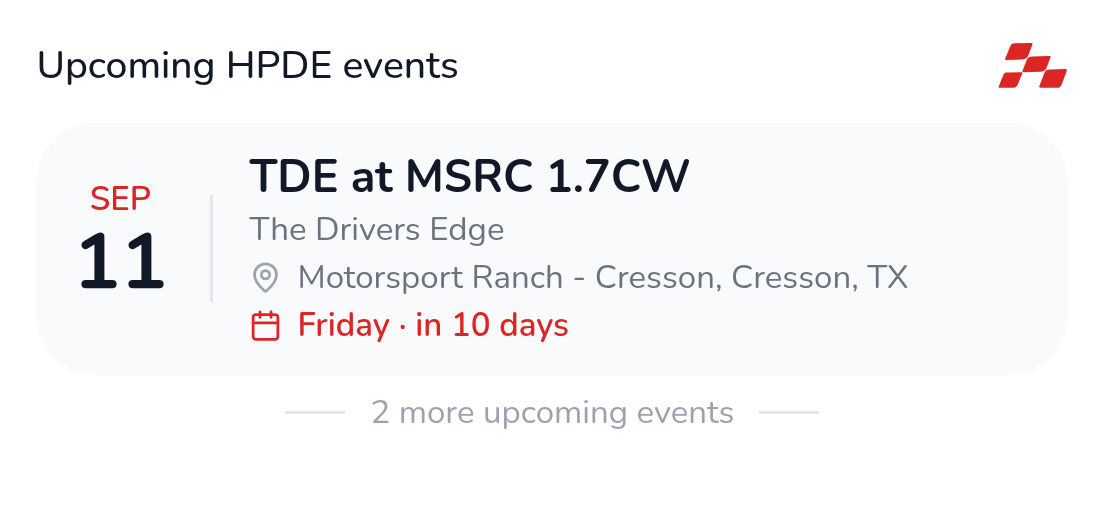
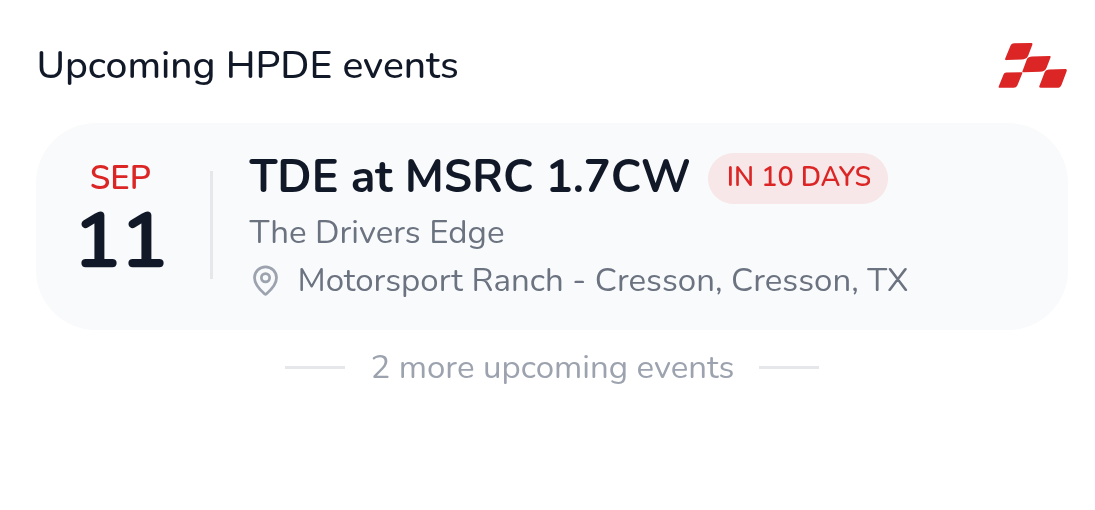
Widget: countdown pill beside the event name; smaller name on Small (#204)
The countdown moves up next to the name as an "IN 9 DAYS" pill, styled
like the app's LIVE badge (red on red-500 at 10%), and the "Saturday ·
in 9 days" line goes: the date column already shows the date. Small's
event name drops from 13 to 11pt. Setup-page images regenerated.

Claude-Session: https://claude.ai/code/session_01SkFeD9MJgG612FqN72RSkT

diff --git a/scripts/hpde-widget.js b/scripts/hpde-widget.js
@@ -343,8 +343,9 @@ function validateWidgetParameter(parsed, manifest) {
 // `accent` (blue) is the today view's now-marker, as the app's
 // TimeIndicator. `brand` (red) is the upcoming-events view's accent —
 // the app's DateBlock month (red-600 light / red-400 dark) — for the
-// month, the countdown line, the Small well and the checkered flag;
-// `brandTint` is the Small well's background.
+// month, the countdown pill, the Small well and the checkered flag;
+// `brandTint` (the app's LIVE badge background, red-500 at 10%) is the
+// pill's and the Small well's background.
 function palette(dark) {
   return dark
     // Dark mode keeps its "cards are slightly LIGHTER than the
@@ -358,7 +359,7 @@ function palette(dark) {
         currentCardBg: new Color("#122135"),
         divider: new Color("#26262c"),
         accent: new Color("#3b82f6"),
-        brand: new Color("#f87171"), brandTint: new Color("#2a1618"),
+        brand: new Color("#f87171"), brandTint: new Color("#ef4444", 0.15),
         pastOpacity: 0.6 }
     // Light mode: widget background is now white and non-current
     // cards use the light gray that USED to be the widget
@@ -372,7 +373,7 @@ function palette(dark) {
         currentCardBg: new Color("#eef4ff"),
         divider: new Color("#e5e7eb"),
         accent: new Color("#3b82f6"),
-        brand: new Color("#dc2626"), brandTint: new Color("#fef2f2"),
+        brand: new Color("#dc2626"), brandTint: new Color("#ef4444", 0.1),
         pastOpacity: 0.6 }
 }
 
@@ -1497,8 +1498,8 @@ function daysUntil(iso) {
 // countdown card instead of a plain "Next: <name>" line. Laid out like
 // the app's event cards (#204): the date stacked on the left (red month
 // over a big day number, as the app's DateBlock), a hairline, then the
-// name over the organizer, the location, and a red "Saturday · in 9
-// days" line.
+// name with a red "IN 9 DAYS" pill beside it (where the app puts its
+// LIVE badge), over the organizer and the location.
 const COUNTDOWN_CARD_GAP = 10
 
 // ----- how the countdown view is laid out, and why -----
@@ -1559,17 +1560,19 @@ const COUNTDOWN_FOOTER_RULE_WIDTH = 20
 // enough to truncate even "Test Raceway".
 const COUNTDOWN_TOKENS = {
   small: {
-    titleFont: 13, titleLines: 2, titleGap: 2, rowFont: 11, rowIconSize: 0, rowIconGap: 4, rowSpacing: 2,
+    titleFont: 11, titleLines: 2, titleGap: 2, rowFont: 11, rowIconSize: 0, rowIconGap: 4, rowSpacing: 2,
     monthFont: 10, dayFont: 22, yearFont: 9, dateColW: 30, dateGap: 8, dividerH: 0,
     wellPadV: 5, wellPadH: 8, unitFont: 18, unitLabelFont: 7,
   },
   regular: {
-    cardPad: 10, titleFont: 15, titleLines: 1, titleGap: 1, rowFont: 11, rowIconSize: 11, rowIconGap: 5, rowSpacing: 3,
+    cardPad: 10, titleFont: 15, titleLines: 1, titleGap: 2, rowFont: 11, rowIconSize: 11, rowIconGap: 5, rowSpacing: 3,
     monthFont: 11, dayFont: 26, yearFont: 10, dateColW: 36, dateGap: 12, dividerH: 36,
+    pillFont: 9, pillPadV: 3, pillPadH: 6, pillGap: 6,
   },
   rich: {
-    cardPad: 16, titleFont: 18, titleLines: 1, titleGap: 3, rowFont: 13, rowIconSize: 13, rowIconGap: 6, rowSpacing: 6,
+    cardPad: 16, titleFont: 18, titleLines: 1, titleGap: 4, rowFont: 13, rowIconSize: 13, rowIconGap: 6, rowSpacing: 6,
     monthFont: 13, dayFont: 34, yearFont: 11, dateColW: 46, dateGap: 16, dividerH: 40,
+    pillFont: 10, pillPadV: 4, pillPadH: 7, pillGap: 8,
   },
 }
 
@@ -1828,8 +1831,9 @@ function addDateColumn(row, iso, p, t) {
   strut.size = new Size(t.dateColW, 1)
 }
 
-// Name, organizer, location (plus track configuration on the rich
-// card) and the red countdown line. Small keeps just the name (up to
+// The name with the countdown pill beside it, then the organizer and
+// location (plus track configuration on the rich card). No date line:
+// the date column already shows it. Small keeps just the name (up to
 // two lines) and the track: its well carries the countdown.
 function addCountdownInfo(row, p, next, t, rich) {
   const small = t === COUNTDOWN_TOKENS.small
@@ -1840,10 +1844,17 @@ function addCountdownInfo(row, p, next, t, rich) {
   // of sharing a left edge.
   col.topAlignContent()
 
-  const title = col.addText(next.event.name)
+  // Name, then the pill. Of the two, the pill is the less flexible (a
+  // few characters), so the row offers it its width first and the name
+  // truncates if anything has to.
+  const titleRow = col.addStack()
+  titleRow.centerAlignContent()
+  titleRow.spacing = t.pillGap
+  const title = titleRow.addText(next.event.name)
   title.font = rBoldFont(t.titleFont)
   title.textColor = p.fg
   title.lineLimit = t.titleLines
+  if (!small) addCountdownPill(titleRow, daysUntil(next.day.date), p, t)
 
   const lines = []
   if (next.event.organizer && !small) lines.push({ text: next.event.organizer })
@@ -1857,20 +1868,26 @@ function addCountdownInfo(row, p, next, t, rich) {
   if (rich && trackConfig) {
     lines.push({ icon: "point.topleft.down.curvedto.point.bottomright.up", text: trackConfig })
   }
-  if (!small) {
-    const days = daysUntil(next.day.date)
-    lines.push({
-      icon: "calendar",
-      text: `${next.day.label || weekdayLabel(next.day.date)} · in ${days} ${pluralize(days, "day")}`,
-      accent: true,
-    })
-  }
 
   col.addSpacer(t.titleGap)
   for (let i = 0; i < lines.length; i++) {
     if (i > 0) col.addSpacer(t.rowSpacing)
     addInfoRow(col, lines[i], p, t)
   }
+}
+
+// "IN 9 DAYS" — styled like the app's LIVE badge beside an event name
+// (StatusBadge): a small uppercase pill, red on a faint red tint.
+function addCountdownPill(row, days, p, t) {
+  const pill = row.addStack()
+  pill.backgroundColor = p.brandTint
+  pill.cornerRadius = 100
+  pill.setPadding(t.pillPadV, t.pillPadH, t.pillPadV, t.pillPadH)
+  pill.centerAlignContent()
+  const label = pill.addText(`in ${days} ${pluralize(days, "day")}`.toUpperCase())
+  label.font = rSemiboldFont(t.pillFont)
+  label.textColor = p.brand
+  label.lineLimit = 1
 }
 
 // Small-only: the countdown "well" — a red-tinted rounded box with the
@@ -1889,10 +1906,9 @@ function drawCountdownWell(container, next, p, t) {
   well.addSpacer()
 }
 
-// One info line: an optional SF Symbol, then the text. `accent` lines
-// (the countdown) are red and semibold. A line without an icon (the
-// organizer) sits flush with the title, like the app's name-over-
-// organizer.
+// One info line: an optional SF Symbol, then the text. A line without
+// an icon (the organizer) sits flush with the title, like the app's
+// name-over-organizer.
 function addInfoRow(col, row, p, t) {
   const stack = col.addStack()
   stack.centerAlignContent()
@@ -1902,12 +1918,12 @@ function addInfoRow(col, row, p, t) {
     if (sym) {
       const img = stack.addImage(sym.image)
       img.imageSize = new Size(t.rowIconSize, t.rowIconSize)
-      img.tintColor = row.accent ? p.brand : p.muted
+      img.tintColor = p.muted
     }
   }
   const text = stack.addText(row.text)
-  text.font = row.accent ? rSemiboldFont(t.rowFont) : rFont(t.rowFont)
-  text.textColor = row.accent ? p.brand : p.mutedStrong
+  text.font = rFont(t.rowFont)
+  text.textColor = p.mutedStrong
   text.lineLimit = 1
 }
 

diff --git a/scripts/hpde-widget.test.ts b/scripts/hpde-widget.test.ts
@@ -409,9 +409,19 @@ describe('scriptable widget loads and renders', () => {
     const i = texts.indexOf(months[m - 1])
     expect(i).toBeGreaterThan(-1)
     expect(texts[i + 1]).toBe(String(d))
-    // ...then the name, and the countdown line.
-    expect(texts.indexOf('Upcoming A')).toBeGreaterThan(i)
-    expect(texts).toContain('Monday · in 10 days')
+    // ...then the name with the countdown pill beside it. No separate
+    // date/weekday line: the date column already shows the date.
+    const name = texts.indexOf('Upcoming A')
+    expect(name).toBeGreaterThan(i)
+    expect(texts[name + 1]).toBe('IN 10 DAYS')
+    expect(texts.some(t => t.includes('Monday'))).toBe(false)
+  })
+
+  it('keeps the countdown in the well on Small, with no pill beside the name', async () => {
+    await runWidget('small', UPCOMING_MULTI_MANIFEST)
+    const texts = (globalThis as any).__texts as string[]
+    expect(texts).toContain('DAYS AWAY')
+    expect(texts.some(t => t.startsWith('IN '))).toBe(false)
   })
 
   it('draws the checkered flag in the header on every family', async () => {
